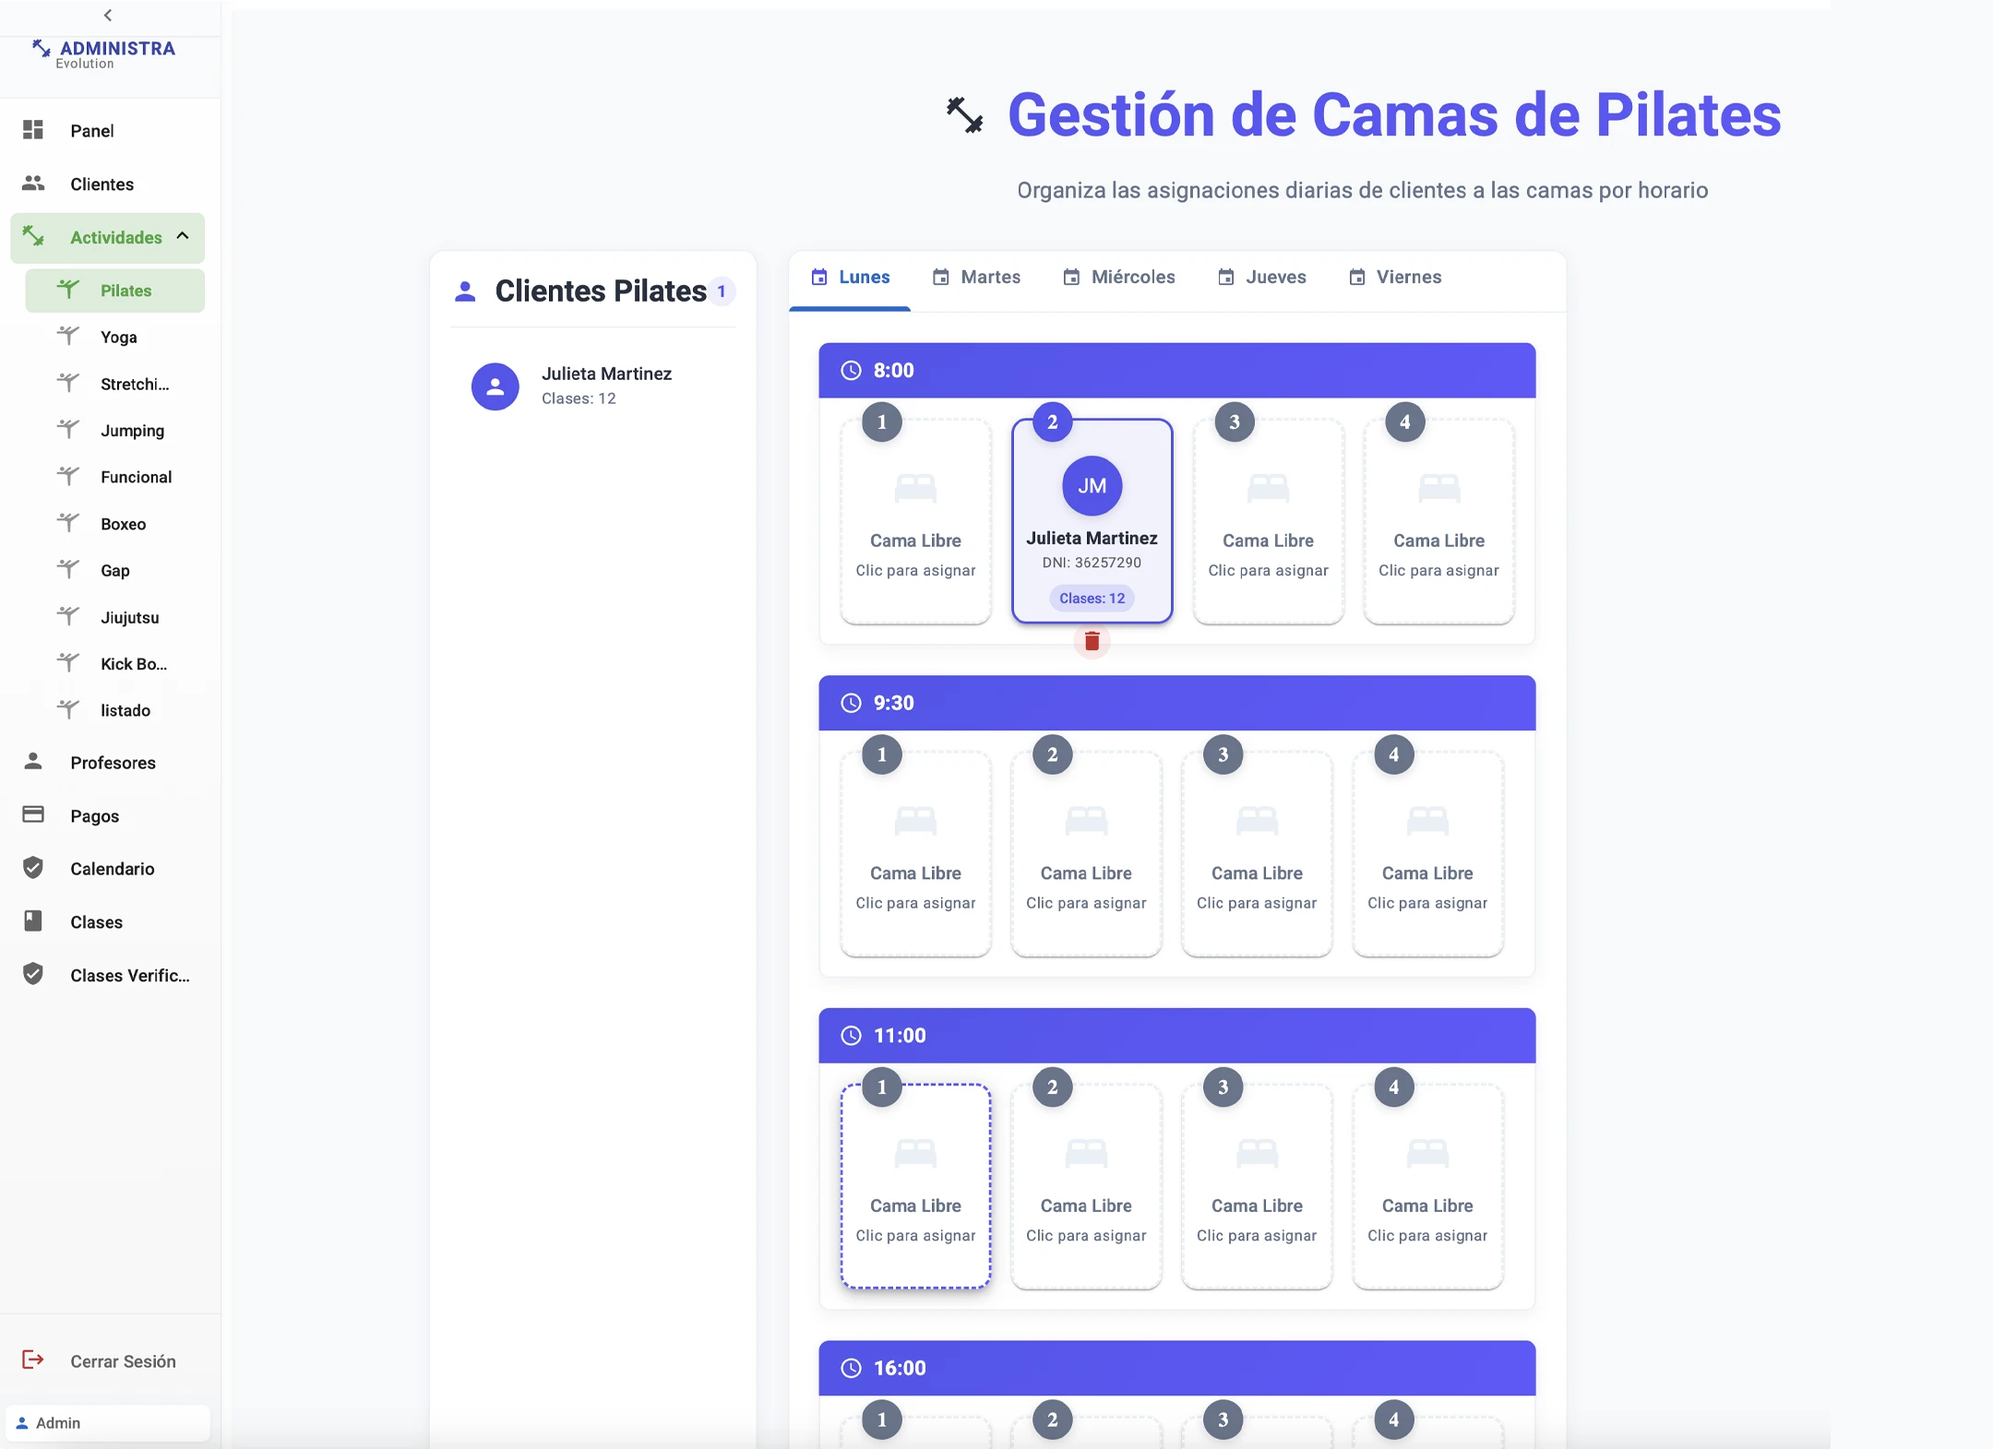
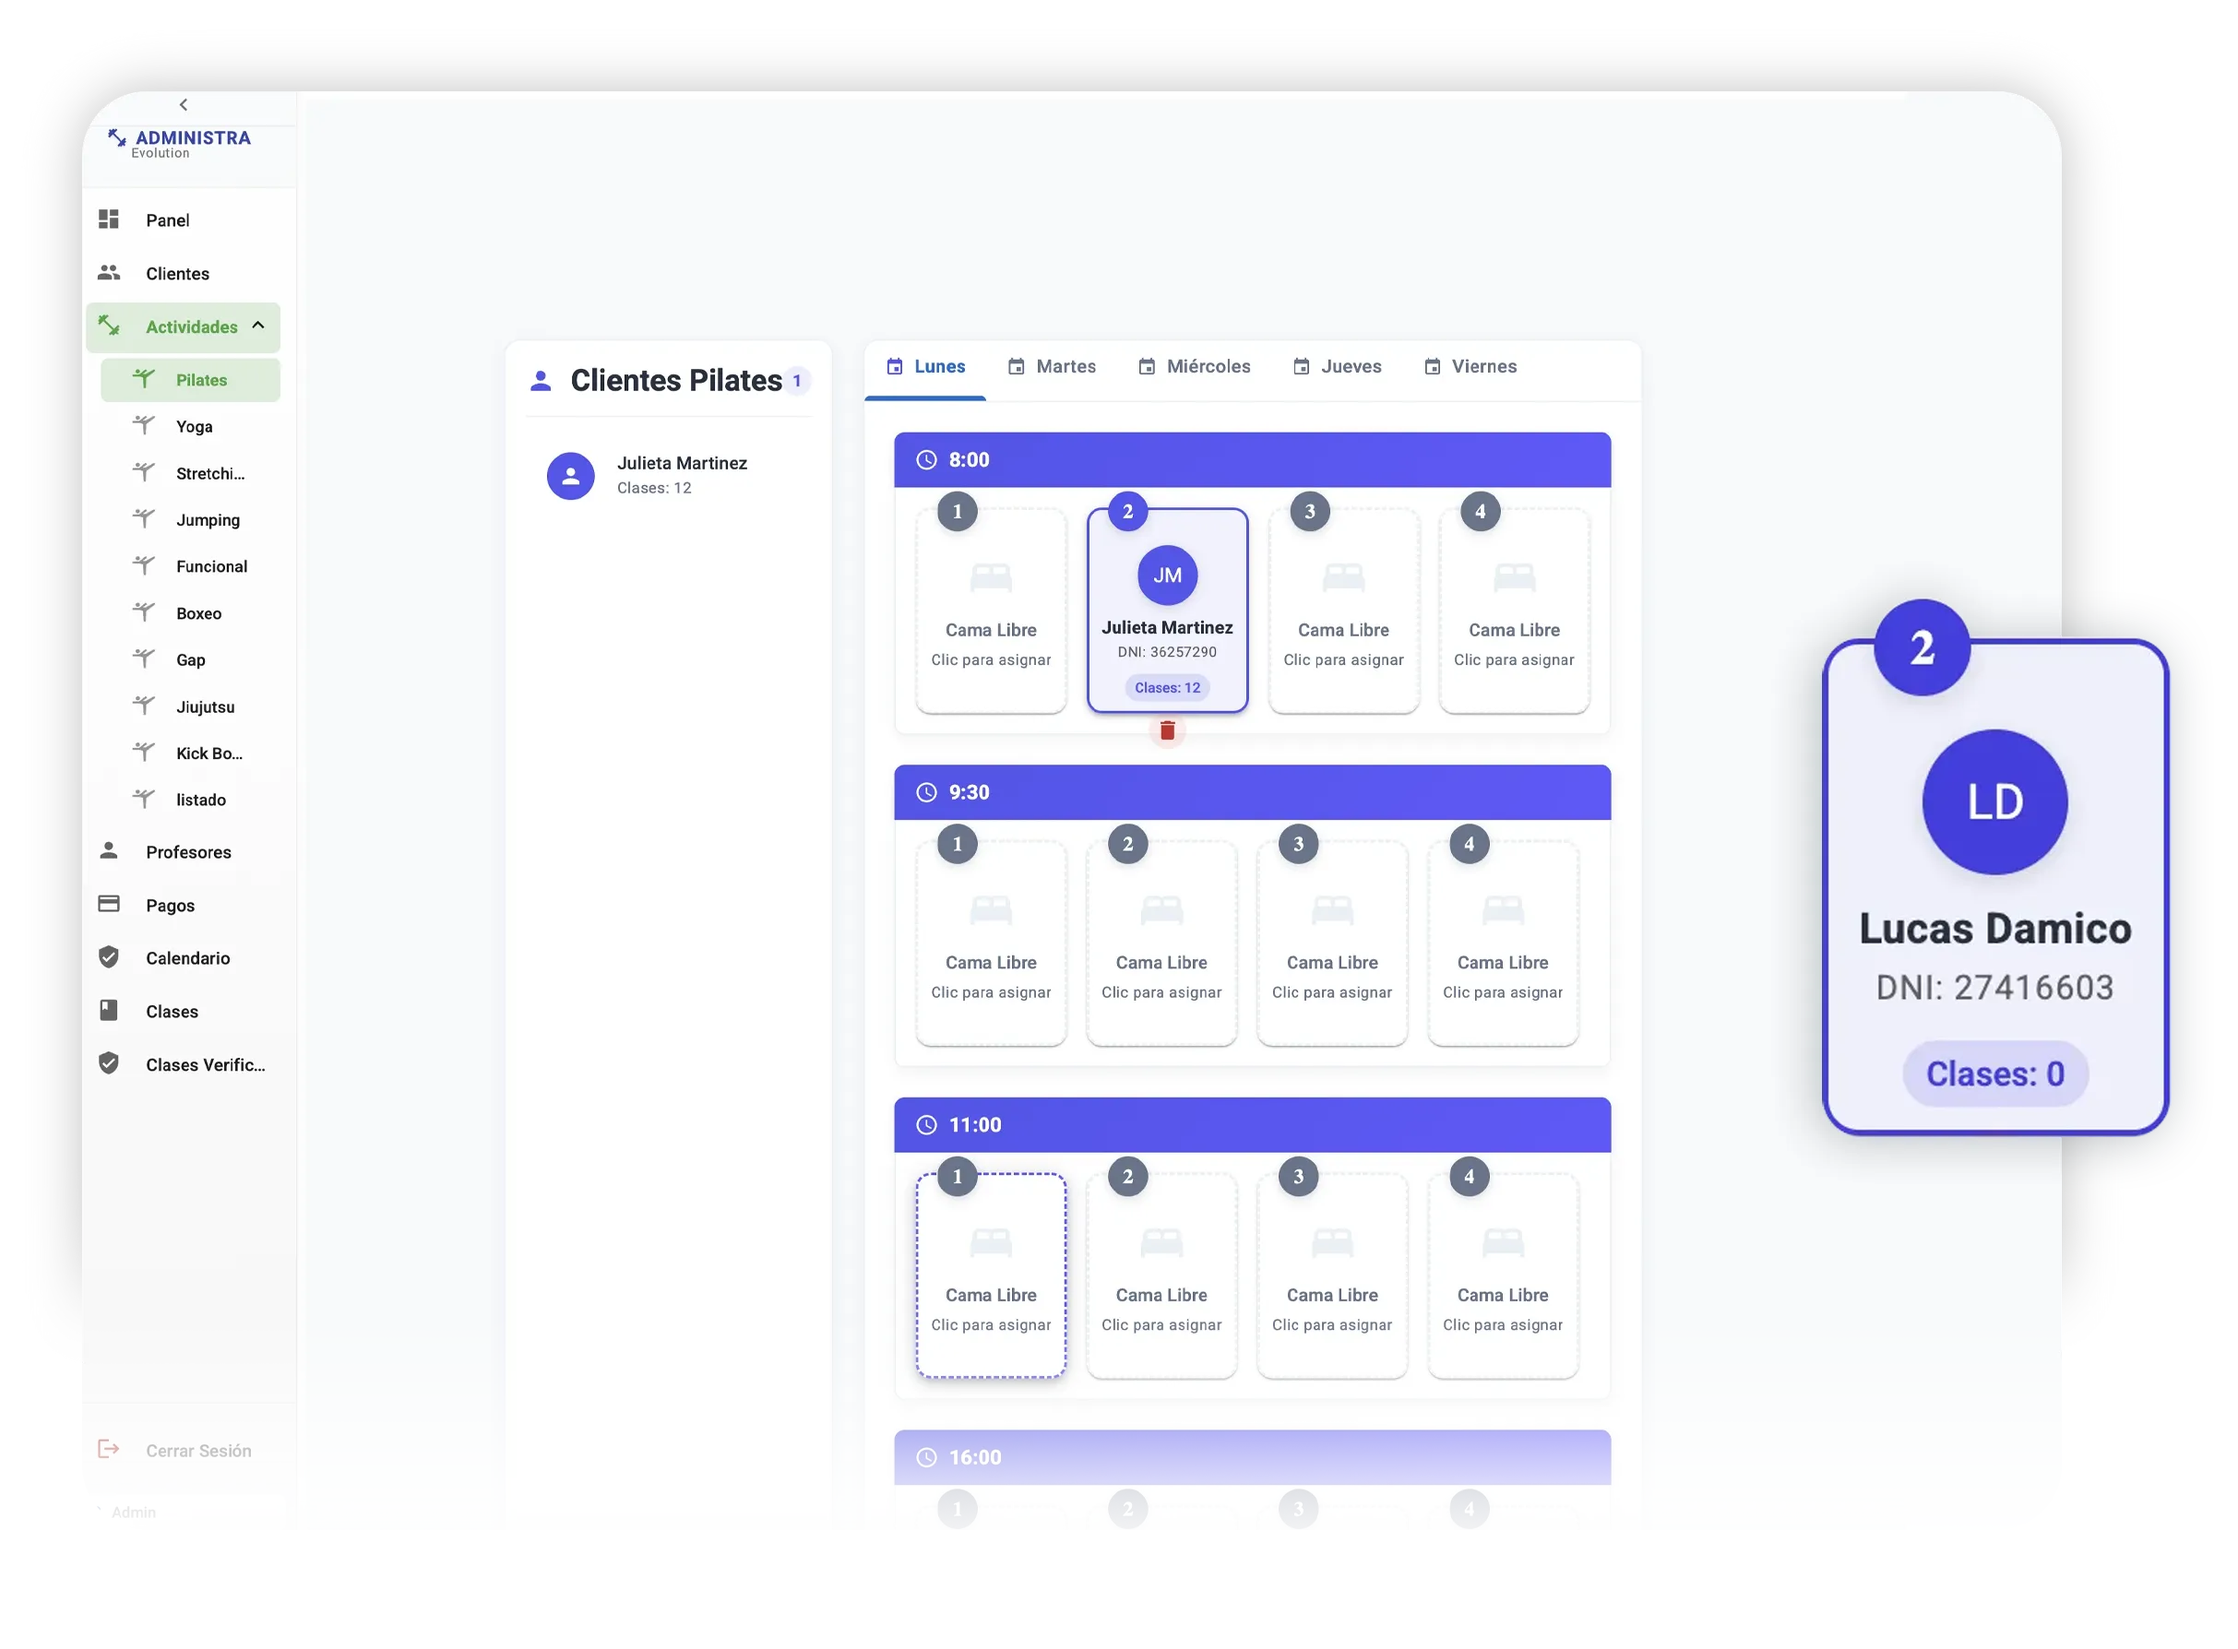
ajuste de imagenes camas

diff --git a/src/pages/Landing/GestionCamas.jsx b/src/pages/Landing/GestionCamas.jsx
@@ -43,11 +43,11 @@ const GestionCamas = () => {
     <section className="py-10 bg-white sm:py-16 lg:py-24">
       <div className="px-4 mx-auto sm:px-6 lg:px-8 max-w-7xl">
         <div className="grid items-center grid-cols-1 gap-y-12 lg:grid-cols-2 lg:gap-x-24">
-          <div className="relative mx-auto aspect-video max-w-2xl overflow-hidden rounded-xl shadow-2xl lg:max-w-none">
+          <div className="">
             <img
               src="/dashboard-gestion-camas.webp"
-              alt="Vista previa del administrador Crossfy para estudios de pilates"
-              className="h-full w-full object-cover object-center"
+              alt="Vista previa del administrador"
+              className=""
               loading="lazy"
             />
           </div>
